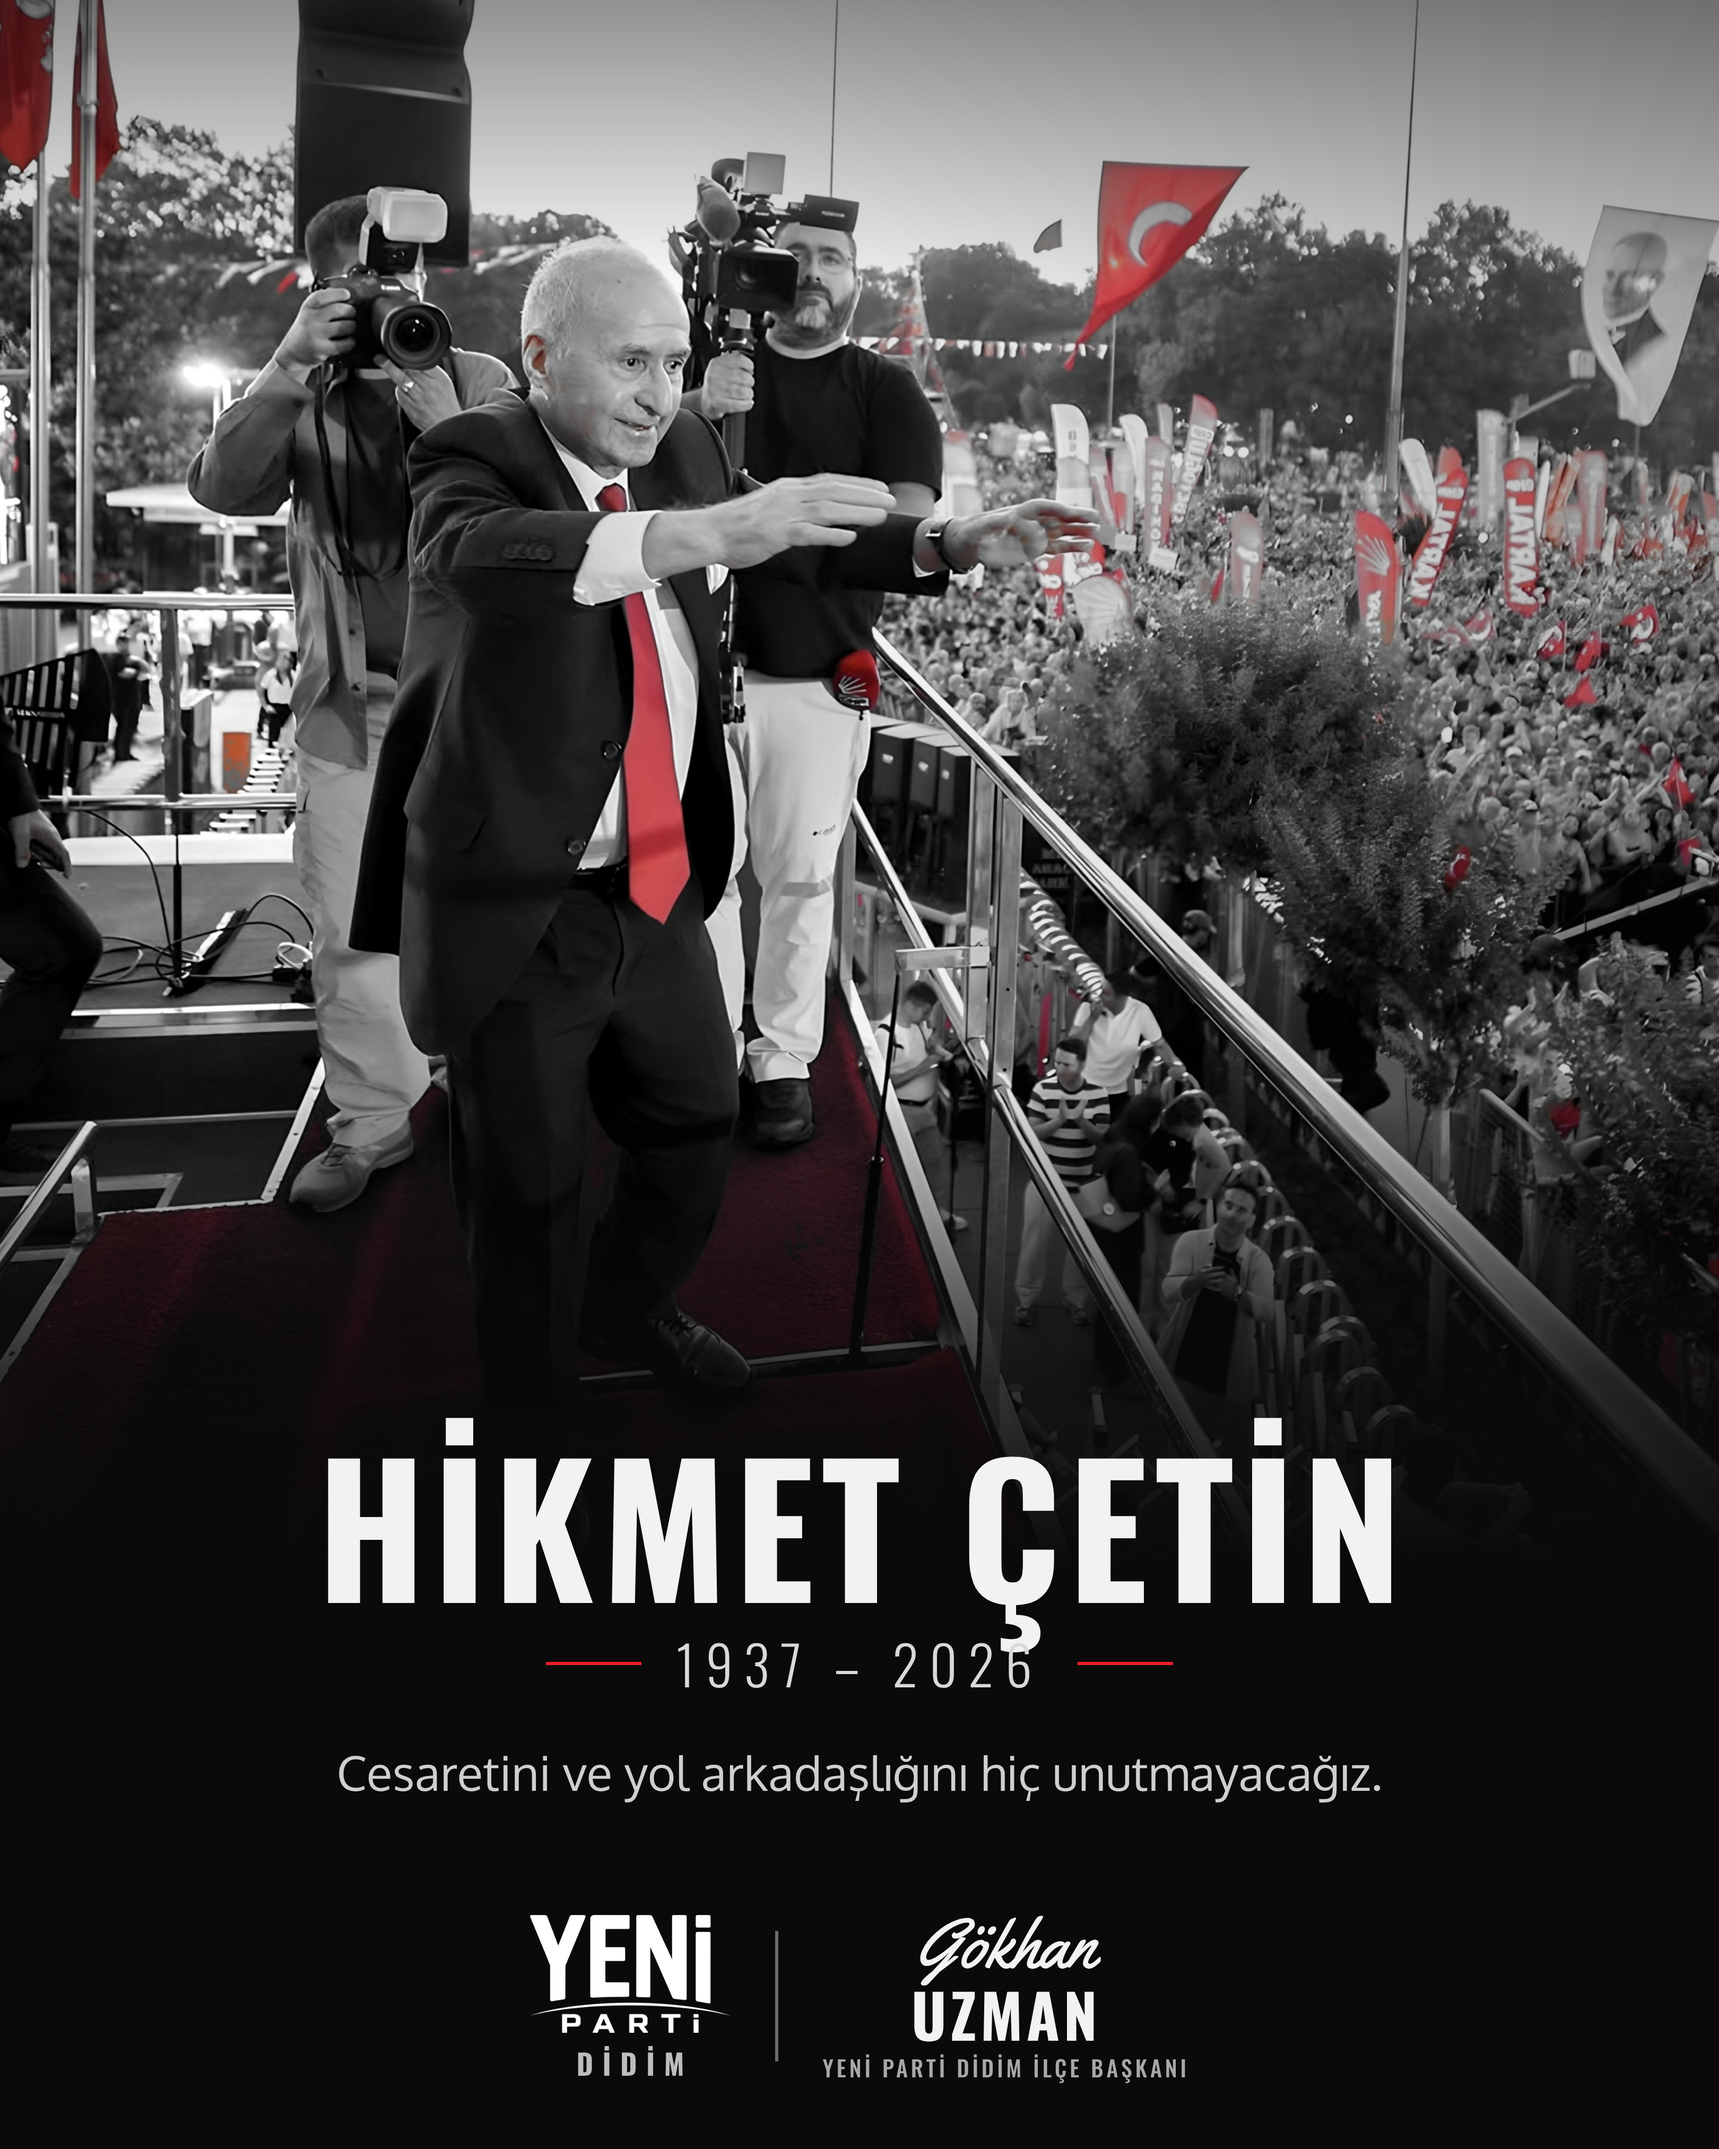
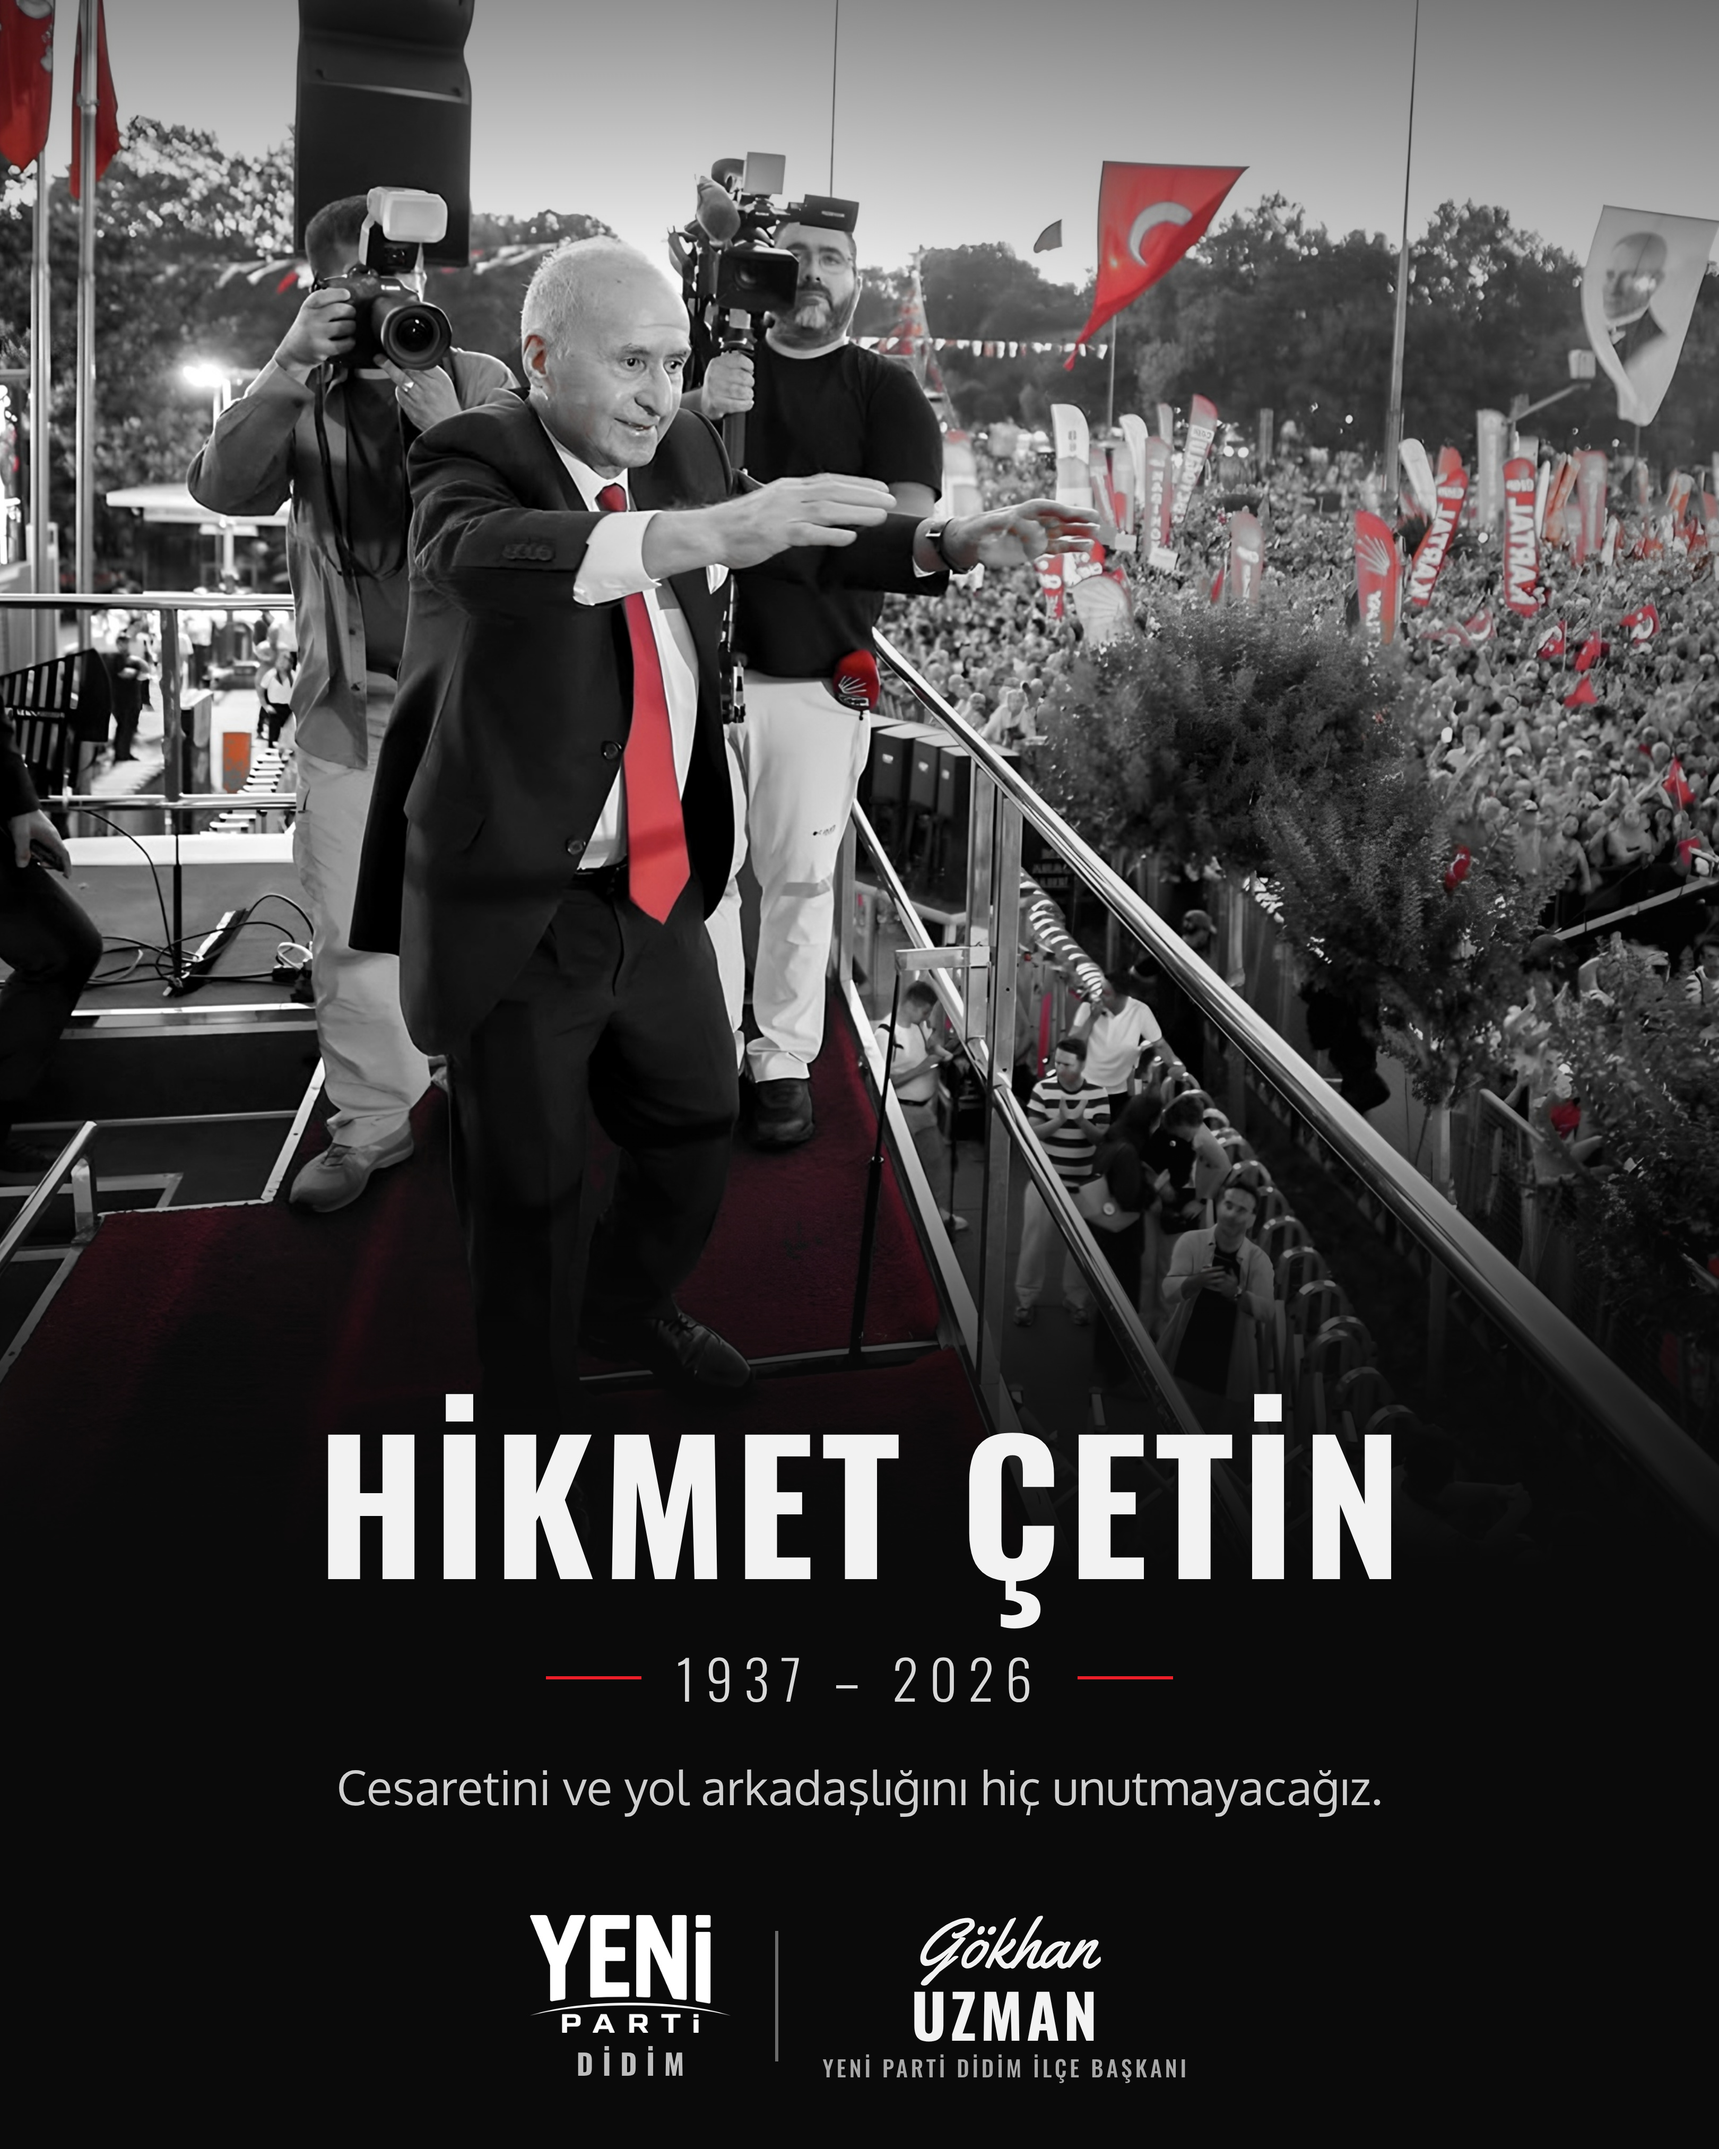
Hikmet Çetin: Ç altına boşluk
Claude-Session: https://claude.ai/code/session_01SatttGbgBLoCnk9KGLypWv

Changed region(s): [[0.187, 0.6533, 0.8105, 0.84]]

diff --git a/tasarim/kisisel/hikmet-cetin/post.html b/tasarim/kisisel/hikmet-cetin/post.html
@@ -11,9 +11,9 @@ html,body{margin:0;width:1080px;height:1350px;overflow:hidden;background:#0a0a0a
 .f{position:absolute;left:-20px;top:0;width:1360px}
 .v{position:absolute;inset:0;background:linear-gradient(180deg,rgba(10,10,10,.45) 0,rgba(10,10,10,0) 14%,rgba(10,10,10,0) 50%,rgba(10,10,10,.8) 64%,#0a0a0a 73%)}
 .y{position:absolute;inset:0;background:linear-gradient(90deg,rgba(10,10,10,.0) 40%,rgba(10,10,10,.25) 100%)}
-.ad{position:absolute;left:0;right:0;top:900px;text-align:center}
+.ad{position:absolute;left:0;right:0;top:885px;text-align:center}
 .ad .n{font:112px/1 O7;letter-spacing:.04em;margin-right:-.04em}
-.ad .t{margin-top:16px;display:flex;justify-content:center;align-items:center;gap:22px;font:34px/1 O3;letter-spacing:.2em;color:#d9d9d9}
+.ad .t{margin-top:40px;display:flex;justify-content:center;align-items:center;gap:22px;font:34px/1 O3;letter-spacing:.2em;color:#d9d9d9}
 .ad .t i{display:block;width:60px;height:2px;background:#EC1E27}
 .ad .s{margin-top:30px;font:400 30px/1.4 Ox;color:#cfcfcf}
 .imza{position:absolute;left:0;right:0;bottom:44px;display:flex;justify-content:center;align-items:center;gap:28px}
